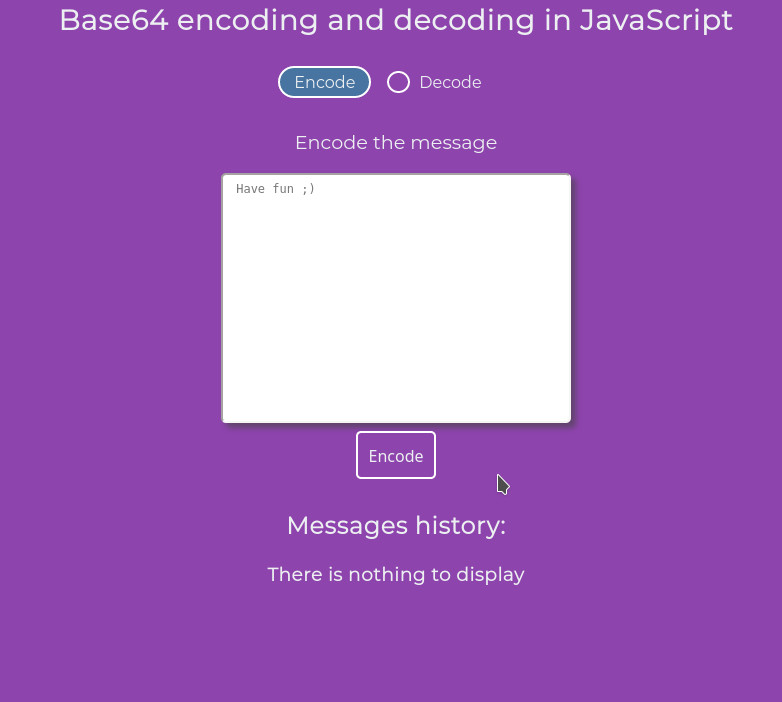
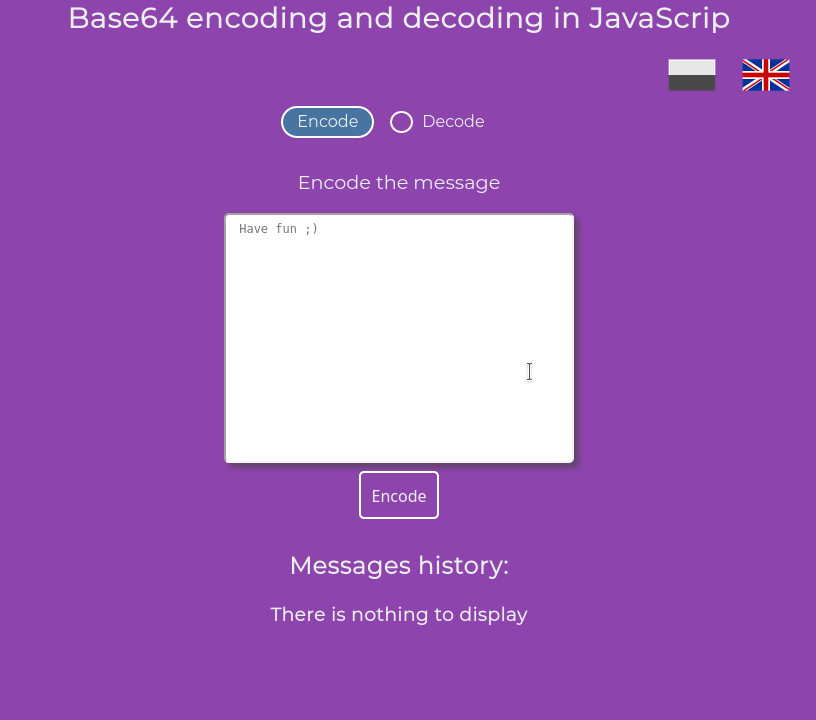
Fixed issue with displaing language images
Fixed issue with displaing language images

Changed region(s): [[0.2762, 0.2393, 0.7366, 0.8675], [0.0614, 0.0, 0.9821, 0.1496], [0.3376, 0.0897, 0.6445, 0.2094]]

diff --git a/js/app.js b/js/app.js
@@ -1,6 +1,7 @@
 import "../scss/index.scss";
-import { base64, changeBtnContent } from "./base64";
+import { base64, changeBtnContent, getSelectionValue } from "./base64";
 import handleButtonsMsg from "./handleButtonsMsg";
+import { language, handleChangeLang } from "./language";
 import "@fortawesome/fontawesome-free/js/fontawesome";
 import "@fortawesome/fontawesome-free/js/solid";
 import "@fortawesome/fontawesome-free/js/regular";
@@ -10,13 +11,21 @@ import "@fortawesome/fontawesome-free/js/brands";
 const btn = document.getElementById("btn");
 const radioBtn = document.querySelectorAll('input[name="radio_btn"]');
 const history = document.querySelector(".history");
+const langs = document.querySelectorAll('input[name="lang"]');
 
 // check or get items from local session when browser will be refresh or loaded
 const getItems = () => {
   /* ----------------------------------------------- */
   // this section only start when page is load, refresh or last element will be delete from session storage
-  const section = document.getElementsByTagName("section")[1];
+  const section = document.getElementsByTagName("section")[2];
   const h3 = document.querySelector(".noData");
+  const historyTitle = document.getElementById("history__title");
+  const encode = document.querySelector(".options__encode");
+  const decode = document.querySelector(".options__decode");
+  const h1 = document.querySelector("h1");
+  const textareaText = document.querySelector(".form-group__label");
+  const imgPl = document.querySelector(".langs_pl > img");
+  const imgEn = document.querySelector(".langs_en > img");
 
   // put all data from session storage to DOM
   let data = "";
@@ -52,12 +61,43 @@ const getItems = () => {
   // inserting all data from local session as innerHTML in to the DOM
   history.innerHTML = data;
 
+  //check what language is set, then change all text for chosen language
+  encode.textContent = language() === "pl" ? "Zakoduj" : "Encode";
+  decode.textContent = language() === "pl" ? "Odszyfruj" : "Decode";
+  historyTitle.textContent =
+    language() === "pl" ? "Historia wiadomości:" : "Messages history:";
+  h1.textContent =
+    language() === "pl"
+      ? "Kodowanie i dekodowanie w JavaScript za pomocą Base64"
+      : "Base64 encoding and decoding in JavaScrip";
+
+  // program need to check what value is selected encode or decode to change correctly between textcontent
+  if (getSelectionValue() === "encode") {
+    btn.textContent = language() === "pl" ? "Zakoduj" : "Encode";
+    textareaText.textContent =
+      language() === "pl" ? "Zakoduj wiadomość" : "Encode the message";
+  } else {
+    btn.textContent = language() === "pl" ? "Odszyfruj" : "Decode";
+    textareaText.textContent =
+      language() === "pl" ? "Dekoduj wiadomość" : "Decode the message";
+  }
+
+  // set filter on not used language
+  if (language() === "en") {
+    imgPl.setAttribute("style", "filter: grayscale(100%)");
+  } else if (language() === "pl") {
+    imgEn.setAttribute("style", "filter: grayscale(100%)");
+  }
+
   // set title if history content is empty on load
   if (history.firstElementChild === null) {
     //create this element when history is empty
     const h3 = document.createElement("h3");
     h3.setAttribute("class", "noData");
-    const text = "There is nothing to display";
+    const text =
+      language() === "pl"
+        ? "Nie ma nic do wyświetlenia"
+        : "There is nothing to display";
 
     h3.appendChild(document.createTextNode(text));
 
@@ -79,3 +119,5 @@ btn.addEventListener("click", base64);
 
 // select option
 [...radioBtn].map((item) => item.addEventListener("change", changeBtnContent));
+
+[...langs].map((lang) => lang.addEventListener("change", handleChangeLang));

diff --git a/js/language.js b/js/language.js
@@ -1,0 +1,63 @@
+import { getSelectionValue } from "./base64";
+
+export const language = () => {
+  const lang = document.querySelectorAll('input[name="lang"]');
+  let isLangPl;
+
+  for (let i = 0; i < lang.length; i++) {
+    if (lang[i].checked) {
+      if (lang[i].value === "pl") {
+        isLangPl = "pl";
+      } else {
+        isLangPl = "en";
+      }
+    }
+  }
+  return isLangPl;
+};
+
+export const handleChangeLang = () => {
+  const h1 = document.querySelector("h1");
+  const encode = document.querySelector(".options__encode");
+  const decode = document.querySelector(".options__decode");
+  const historyTitle = document.getElementById("history__title");
+  const textareaText = document.querySelector(".form-group__label");
+  const btn = document.getElementById("btn");
+  const h3 = document.querySelector(".noData");
+  const imgPl = document.querySelector(".langs_pl > img");
+  const imgEn = document.querySelector(".langs_en > img");
+
+  h1.textContent =
+    language() === "pl"
+      ? "Kodowanie i dekodowanie w JavaScript za pomocą Base64"
+      : "Base64 encoding and decoding in JavaScrip";
+
+  encode.textContent = language() === "pl" ? "Zakoduj" : "Encode";
+  decode.textContent = language() === "pl" ? "Odszyfruj" : "Decode";
+
+  historyTitle.textContent =
+    language() === "pl" ? "Historia wiadomości:" : "Messages history:";
+
+  h3.textContent =
+    language() === "pl"
+      ? "Nie ma nic do wyświetlenia"
+      : "There is nothing to display";
+
+  if (getSelectionValue() === "encode") {
+    btn.textContent = language() === "pl" ? "Zakoduj" : "Encode";
+    textareaText.textContent =
+      language() === "pl" ? "Zakoduj wiadomość" : "Encode the message";
+  } else {
+    btn.textContent = language() === "pl" ? "Odszyfruj" : "Decode";
+    textareaText.textContent =
+      language() === "pl" ? "Dekoduj wiadomość" : "Decode the message";
+  }
+
+  if (language() === "en") {
+    imgPl.setAttribute("style", "filter: grayscale(100%)");
+    imgEn.removeAttribute("style");
+  } else if (language() === "pl") {
+    imgPl.removeAttribute("style");
+    imgEn.setAttribute("style", "filter: grayscale(100%)");
+  }
+};

diff --git a/webpack.config.js b/webpack.config.js
@@ -2,34 +2,43 @@ const path = require("path");
 const HtmlWebpackPlugin = require("html-webpack-plugin");
 
 module.exports = {
+  mode: "production",
   entry: "./js/app.js",
   output: {
     path: path.resolve(__dirname, "build"),
-    filename: "app.min.js"
+    filename: "app.min.js",
   },
   devServer: {
-    open: true
+    open: true,
   },
   module: {
     rules: [
       {
         test: /\.js$/,
-        exclude: /node_modules/
+        exclude: /node_modules/,
       },
       {
         test: /\.css$/,
-        use: ["style-loader", "css-loader"]
+        use: ["style-loader", "css-loader"],
       },
       {
         test: /\.scss$/,
-        use: ["style-loader", "css-loader", "sass-loader"]
-      }
-    ]
+        use: ["style-loader", "css-loader", "sass-loader"],
+      },
+      {
+        test: /\.(jpg|png)$/,
+        use: "file-loader",
+      },
+      {
+        test: /\.html$/i,
+        loader: "html-loader",
+      },
+    ],
   },
   plugins: [
     new HtmlWebpackPlugin({
       template: "index.html",
-      filename: "index.html"
-    })
-  ]
+      filename: "index.html",
+    }),
+  ],
 };

diff --git a/js/base64.js b/js/base64.js
@@ -1,8 +1,9 @@
 import handleSelectOption from "./handleSelectOption";
 import handleError from "./handleError";
+import { language } from "./language";
 
 // this function return what option is selected from radio input
-const getSelectionValue = () => {
+export const getSelectionValue = () => {
   const radioBtn = document.querySelectorAll('input[name="radio_btn"]');
   let value;
 
@@ -41,12 +42,14 @@ export const changeBtnContent = (e) => {
 
   switch (true) {
     case getSelection == "encode":
-      btn.textContent = "Encode";
-      textareaText.textContent = "Encode the message";
+      btn.textContent = language() === "pl" ? "Zakoduj" : "Encode";
+      textareaText.textContent =
+        language() === "pl" ? "Zakoduj wiadomość" : "Encode the message";
       break;
     case getSelection == "decode":
-      btn.textContent = "Decode";
-      textareaText.textContent = "Decode the message";
+      btn.textContent = language() === "pl" ? "Odszyfruj" : "Decode";
+      textareaText.textContent =
+        language() === "pl" ? "Dekoduj wiadomość" : "Decode the message";
       break;
   }
 };

diff --git a/js/handleButtonsMsg.js b/js/handleButtonsMsg.js
@@ -1,8 +1,9 @@
 import removeDataFromSessionStorage from "./removeSession";
+import { language } from "./language";
 
 // remove specific element from DOM and session storage
 const handleButtonsMsg = (e) => {
-  const section = document.getElementsByTagName("section")[1];
+  const section = document.getElementsByTagName("section")[2];
 
   // check if clicked elemnt contains a delete class
   if (e.target.classList.contains("delete")) {
@@ -25,7 +26,10 @@ const handleButtonsMsg = (e) => {
       if (div.firstElementChild === null) {
         const h3 = document.createElement("h3");
         h3.setAttribute("class", "noData");
-        const text = "There is nothing to display";
+        const text =
+          language() === "pl"
+            ? "Nie ma nic do wyświetlenia"
+            : "There is nothing to display";
 
         h3.appendChild(document.createTextNode(text));
 

diff --git a/js/handleError.js b/js/handleError.js
@@ -1,5 +1,7 @@
 // This function warns the user that he cannot decode the message if it is not encoded
 
+import { language } from "./language";
+
 const handleError = () => {
   if (document.querySelector(".error")) return;
 
@@ -10,7 +12,10 @@ const handleError = () => {
   const p = document.createElement("p");
   const i = document.createElement("i");
   const button = document.createElement("button");
-  const warrning = "You cannot decode the message if it is not encoded yet";
+  const warrning =
+    language() === "pl"
+      ? "Nie można odkodować wiadomości, jeśli nie jest jeszcze zakodowana"
+      : "You cannot decode the message if it is not encoded yet";
 
   button.setAttribute("class", "errBtn");
   button.appendChild(document.createTextNode("OK"));

diff --git a/index.html b/index.html
@@ -10,6 +10,14 @@
 <body>
   <header>
     <h1>Base64 encoding and decoding in JavaScript</h1>
+    <section>
+      <div class="language">
+        <input type="radio" id="pl" name="lang" value="pl" checked="checked">
+        <label class="langs_pl" for="pl"><img src="assets/images/pl.png" alt="Polski"></label>
+        <input type="radio" id="en" name="lang" value="decode">
+        <label class="langs_en" for="en"><img src="assets/images/en.png" alt="English"></label>
+      </div>
+    </section>
   </header>
   <section>
     <div class="options" id="options">

diff --git a/scss/_radioLang.scss b/scss/_radioLang.scss
@@ -1,0 +1,27 @@
+.language {
+  display: flex;
+  justify-content: center;
+  padding-bottom: 1em;
+  width: 100%;
+  @include medium {
+    justify-content: flex-end;
+    padding-bottom: 0.1em;
+  }
+  & .langs_pl,
+  .langs_en {
+    margin-right: 0.5em;
+    transition: all 0.5s ease;
+    &:hover {
+      transform: scale(0.9);
+    }
+  }
+  & input[type="radio"][name="lang"] {
+    visibility: hidden;
+  }
+  & label img {
+    width: 50px;
+    height: 50px;
+    cursor: pointer;
+    transition: all 0.3s ease;
+  }
+}

diff --git a/scss/_app.scss b/scss/_app.scss
@@ -5,7 +5,7 @@ body {
   font-family: "Montserrat", sans-serif;
   header > h1 {
     text-align: center;
-    padding: 0.5em 0 1em;
+    padding: 0.5em 0 0.5em;
     font-size: 1.6em;
     @include small_XX {
       font-size: 1.8em;

diff --git a/scss/index.scss b/scss/index.scss
@@ -5,3 +5,4 @@
 @import "textarea";
 @import "enco_deco";
 @import "error";
+@import "_radioLang";
